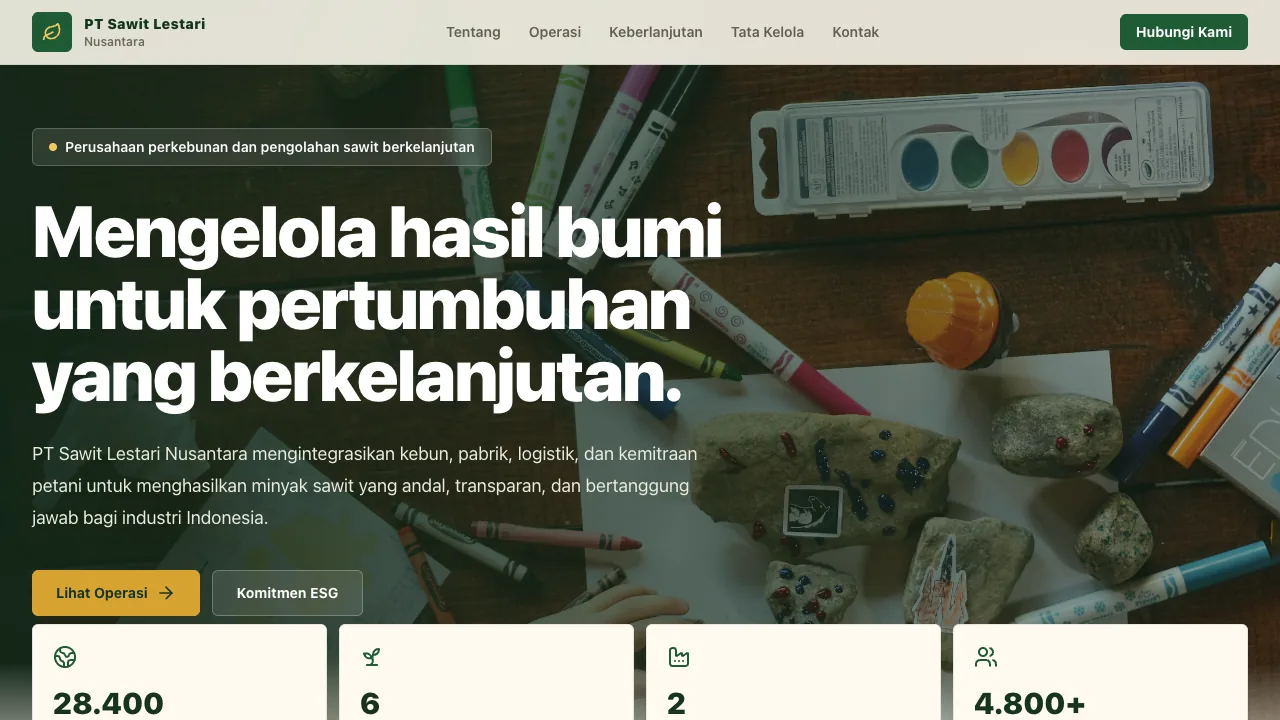
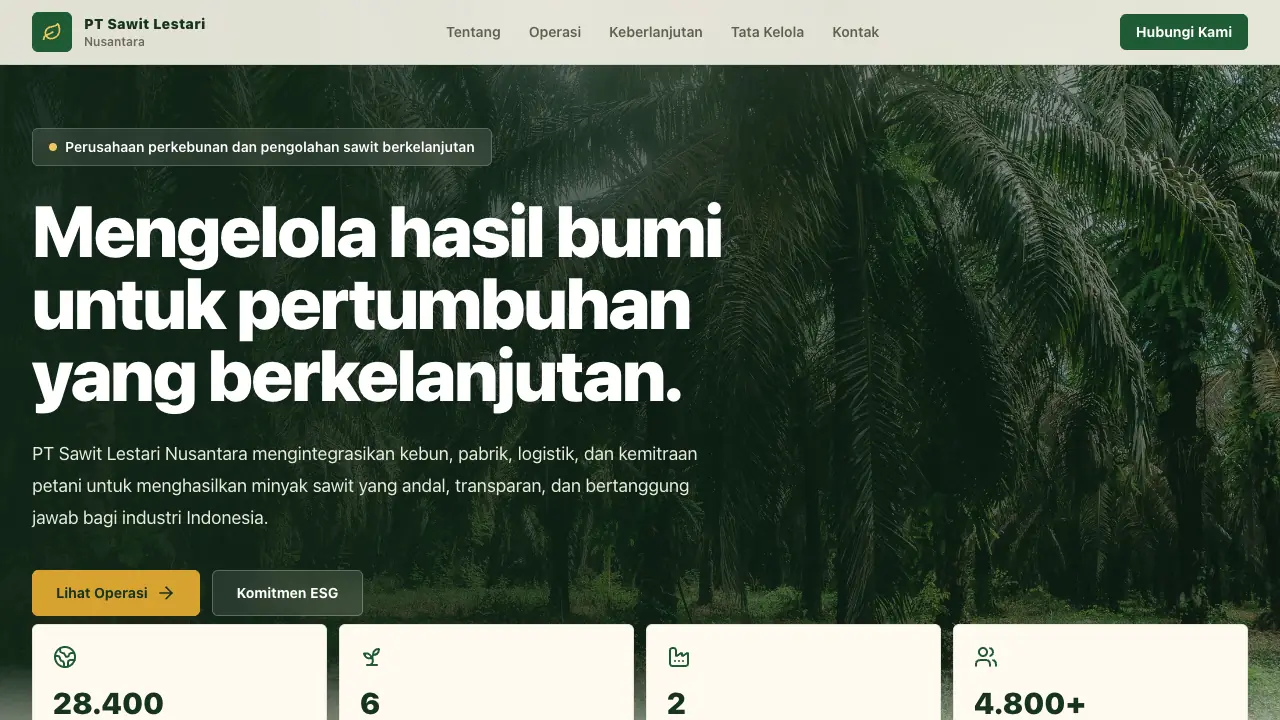
feat(web): show real demo screens, the team and plain checks on the homepage
- Products: each card leads with its demo screenshot in a browser frame,
  two wide tiles then three, with outcome-focused descriptions.
- About: the team's photos, names and roles replace three generic
  value cards.
- Hero: the four service pills become a checklist so they no longer read
  as extra buttons.
- Recapture the company demo screenshot with its new hero photo.

diff --git a/apps/web/components/products.tsx b/apps/web/components/products.tsx
@@ -1,13 +1,7 @@
-import {
-  ArrowRight,
-  Bot,
-  Building,
-  MonitorSmartphone,
-  ShoppingCart,
-  UsersRound,
-  type LucideIcon,
-} from "lucide-react";
+import { ArrowRight } from "lucide-react";
+import Image from "next/image";
 import { type Messages } from "@/lib/i18n";
+import { cn } from "@repo/ui/lib/utils";
 import { ConversionLink } from "./conversion-link";
 import { Reveal } from "./reveal";
 import { ScrollParallax } from "./scroll-parallax";
@@ -16,15 +10,12 @@ type ProductsProps = {
   messages: Messages;
 };
 
-const productIcons: LucideIcon[] = [
-  Bot,
-  UsersRound,
-  Building,
-  ShoppingCart,
-  MonitorSmartphone,
-];
+/** The first two products get wide tiles; the rest share the row below. */
+const FEATURED_COUNT = 2;
 
 export function Products({ messages }: ProductsProps) {
+  const items = messages.products.items;
+
   return (
     <section className="section-padding overflow-hidden bg-white">
       <div className="section-container">
@@ -49,47 +40,99 @@ export function Products({ messages }: ProductsProps) {
           </Reveal>
         </ScrollParallax>
 
-        <div className="mt-10 grid gap-5 md:mt-14 md:grid-cols-2 lg:grid-cols-3 lg:gap-6">
-          {messages.products.items.map((product, index) => {
-            const Icon = productIcons[index] ?? MonitorSmartphone;
+        <div className="mt-10 grid gap-5 md:mt-14 md:grid-cols-2 lg:grid-cols-6 lg:gap-6">
+          {items.map((product, index) => {
+            const featured = index < FEATURED_COUNT;
+            // With an odd count the last tile would sit alone in the
+            // two-column tablet grid, so it spans the row instead.
+            const spansTabletRow =
+              index === items.length - 1 && items.length % 2 === 1;
 
             return (
               <Reveal
-                className="h-full"
+                className={cn(
+                  "h-full",
+                  featured ? "lg:col-span-3" : "lg:col-span-2",
+                  spansTabletRow && "md:col-span-2 lg:col-span-2",
+                )}
                 delay={index * 100}
                 direction={index % 2 === 0 ? "left" : "right"}
                 key={product.name}
               >
-                <article className="product-card-motion group relative flex h-full flex-col overflow-hidden rounded-lg border border-slate-200 bg-white p-5 shadow-sm transition duration-300 hover:-translate-y-2 hover:border-[#E8531A]/30 hover:shadow-xl sm:p-7">
-                  <div className="relative flex h-14 w-14 items-center justify-center rounded-lg bg-[#FAF8F5] text-[#E8531A] transition duration-300 group-hover:-translate-y-1 group-hover:bg-[#FFF4EF]">
-                    <Icon className="h-7 w-7" />
-                  </div>
-                  <h3 className="relative mt-6 text-2xl font-bold tracking-tight text-[#1B3A5C]">
-                    {product.name}
-                  </h3>
-                  <p className="relative mt-4 text-base leading-relaxed text-[#1A1A2E]/75 md:min-h-24">
-                    {product.description}
-                  </p>
-                  <div className="relative mt-6 flex flex-col items-start gap-3 md:mt-auto md:pt-6">
-                    <a
-                      aria-label={`${messages.products.serviceCta}: ${product.name}`}
-                      className="inline-flex items-center gap-2 text-base font-bold text-[#1B3A5C] transition hover:text-[#C4430D]"
-                      href={product.serviceHref}
+                <article className="product-card-motion group relative flex h-full flex-col overflow-hidden rounded-xl border border-slate-200 bg-white shadow-sm transition duration-300 hover:-translate-y-1.5 hover:border-[#E8531A]/30 hover:shadow-xl">
+                  {/* Same destination as the demo link below, so it stays out of the tab order. */}
+                  <ConversionLink
+                    className="block border-b border-slate-200 bg-[#F4F5F7]"
+                    eventLabel={`demo_${product.name}`}
+                    eventName="demo_click"
+                    href={product.href}
+                    rel="noreferrer"
+                    tabIndex={-1}
+                    target="_blank"
+                  >
+                    <div className="flex items-center gap-3 px-4 py-2.5">
+                      <div aria-hidden="true" className="flex items-center gap-1.5">
+                        <span className="h-2 w-2 rounded-full bg-[#D0490F]" />
+                        <span className="h-2 w-2 rounded-full bg-[#F4B350]" />
+                        <span className="h-2 w-2 rounded-full bg-[#3BAA72]" />
+                      </div>
+                      <span className="flex-1 truncate rounded-md bg-white px-3 py-0.5 text-center text-xs font-medium text-slate-500">
+                        {new URL(product.href).host}
+                      </span>
+                    </div>
+                    <div
+                      className={cn(
+                        "relative aspect-[16/9] overflow-hidden",
+                        spansTabletRow && "md:max-lg:aspect-[21/9]",
+                      )}
                     >
-                      {messages.products.serviceCta}
-                      <ArrowRight className="h-5 w-5" />
-                    </a>
-                    <ConversionLink
-                      className="inline-flex items-center gap-2 text-base font-bold text-[#C4430D] transition group-hover:text-[#1B3A5C]"
-                      eventLabel={`demo_${product.name}`}
-                      eventName="demo_click"
-                      href={product.href}
-                      rel="noreferrer"
-                      target="_blank"
-                    >
-                      {product.cta ?? messages.products.learnMore}
-                      <ArrowRight className="h-5 w-5" />
-                    </ConversionLink>
+                      <Image
+                        alt={messages.products.imageAlt.replace(
+                          "{name}",
+                          product.name,
+                        )}
+                        className="object-cover object-top transition duration-500 group-hover:scale-[1.03]"
+                        fill
+                        sizes={
+                          featured
+                            ? "(min-width: 1024px) 600px, (min-width: 768px) 50vw, 100vw"
+                            : "(min-width: 1024px) 400px, (min-width: 768px) 50vw, 100vw"
+                        }
+                        src={product.image}
+                      />
+                    </div>
+                  </ConversionLink>
+
+                  <div className="relative flex flex-1 flex-col p-5 sm:p-6">
+                    <h3 className="text-xl font-bold tracking-tight text-[#1B3A5C] sm:text-2xl">
+                      {product.name}
+                    </h3>
+                    <p className="mt-3 text-base leading-relaxed text-[#1A1A2E]/75">
+                      {product.description}
+                    </p>
+                    <div className="mt-auto flex flex-wrap items-center gap-x-6 gap-y-3 pt-6">
+                      <a
+                        aria-label={`${messages.products.serviceCta}: ${product.name}`}
+                        className="inline-flex items-center gap-2 text-base font-bold text-[#1B3A5C] transition hover:text-[#C4430D]"
+                        href={product.serviceHref}
+                      >
+                        {messages.products.serviceCta}
+                        <ArrowRight className="h-5 w-5" />
+                      </a>
+                      {/* The heading names the product; screen readers get it in the link name too. */}
+                      <ConversionLink
+                        aria-label={`${messages.products.learnMore} ${product.name}`}
+                        className="inline-flex items-center gap-2 text-base font-bold text-[#C4430D] transition hover:text-[#1B3A5C]"
+                        eventLabel={`demo_${product.name}`}
+                        eventName="demo_click"
+                        href={product.href}
+                        rel="noreferrer"
+                        target="_blank"
+                      >
+                        {messages.products.learnMore}
+                        <ArrowRight className="h-5 w-5" />
+                      </ConversionLink>
+                    </div>
                   </div>
                 </article>
               </Reveal>

diff --git a/apps/web/components/about-company.tsx b/apps/web/components/about-company.tsx
@@ -1,6 +1,8 @@
-import { ArrowRight, CheckCircle2, MapPin, Network, ShieldCheck } from "lucide-react";
+import { ArrowRight, CheckCircle2 } from "lucide-react";
+import Image from "next/image";
 import Link from "next/link";
 import { type Messages } from "@/lib/i18n";
+import { getTeamMembers } from "@/lib/team";
 import { Reveal } from "./reveal";
 import { ScrollParallax } from "./scroll-parallax";
 
@@ -8,9 +10,10 @@ type AboutCompanyProps = {
   messages: Messages;
 };
 
-const valueIcons = [MapPin, Network, ShieldCheck];
-
 export function AboutCompany({ messages }: AboutCompanyProps) {
+  const members = getTeamMembers(messages);
+  const photoAlt = messages.aboutPage.team.photoAlt;
+
   return (
     <section className="section-padding overflow-hidden bg-white">
       <div className="section-container grid gap-10 lg:grid-cols-[0.95fr_1.05fr] lg:items-center lg:gap-12">
@@ -51,40 +54,40 @@ export function AboutCompany({ messages }: AboutCompanyProps) {
           </Reveal>
         </ScrollParallax>
 
-        <div className="grid gap-4 md:grid-cols-3 lg:grid-cols-1 lg:gap-5">
-          {messages.about.values.map((value, index) => {
-            const Icon = valueIcons[index] ?? ShieldCheck;
-
-            return (
-              <ScrollParallax
-                direction="up"
-                key={value.label}
-                maxOffset={26 + index * 6}
-              >
-                <Reveal
-                  delay={index * 110}
-                  direction={index % 2 === 0 ? "right" : "left"}
-                >
-                  <article className="h-full rounded-lg border border-slate-200 bg-[#FAF8F5] p-5 shadow-sm transition duration-300 hover:-translate-y-1 hover:shadow-lg sm:p-6">
-                    <div className="flex items-start gap-4 md:flex-col lg:flex-row">
-                      <div className="flex h-12 w-12 shrink-0 items-center justify-center rounded-lg bg-white text-[#E8531A] shadow-sm">
-                        <Icon className="h-6 w-6" />
-                      </div>
-                      <div>
-                        <h3 className="text-xl font-bold tracking-tight text-[#1B3A5C]">
-                          {value.label}
-                        </h3>
-                        <p className="mt-2 text-base leading-relaxed text-[#1A1A2E]/75">
-                          {value.text}
-                        </p>
-                      </div>
+        {/* Real faces instead of abstract values: clients want to know who they work with. */}
+        <ScrollParallax direction="up" maxOffset={30}>
+          <Reveal direction="right">
+            <div className="rounded-2xl border border-slate-200 bg-[#FAF8F5] p-4 shadow-sm sm:p-7">
+              <p className="text-sm font-bold uppercase tracking-[0.14em] text-[#1B3A5C]/70">
+                {messages.about.teamTitle}
+              </p>
+              <ul className="mt-4 grid grid-cols-2 gap-3 sm:mt-5 sm:gap-4">
+                {members.map((member) => (
+                  <li
+                    className="flex flex-col items-center rounded-xl bg-white px-3 py-5 text-center shadow-sm ring-1 ring-slate-200/70 transition duration-300 hover:-translate-y-1 hover:shadow-lg sm:px-5"
+                    key={member.name}
+                  >
+                    <div className="relative h-20 w-20 overflow-hidden rounded-full bg-[#1B3A5C] ring-4 ring-[#FFF4EF] sm:h-24 sm:w-24">
+                      <Image
+                        alt={photoAlt.replace("{name}", member.name)}
+                        className="object-cover object-top"
+                        fill
+                        sizes="96px"
+                        src={member.photo}
+                      />
                     </div>
-                  </article>
-                </Reveal>
-              </ScrollParallax>
-            );
-          })}
-        </div>
+                    <p className="mt-4 text-sm font-bold leading-snug text-[#1B3A5C] sm:text-base">
+                      {member.name}
+                    </p>
+                    <p className="mt-1.5 text-xs font-bold uppercase leading-snug tracking-[0.12em] text-[#C4430D]">
+                      {member.role}
+                    </p>
+                  </li>
+                ))}
+              </ul>
+            </div>
+          </Reveal>
+        </ScrollParallax>
       </div>
     </section>
   );

diff --git a/apps/web/components/hero.tsx b/apps/web/components/hero.tsx
@@ -1,4 +1,4 @@
-import { ArrowRight, Building2 } from "lucide-react";
+import { ArrowRight, Building2, CheckCircle2 } from "lucide-react";
 import Image from "next/image";
 import Link from "next/link";
 import { type Messages } from "@/lib/i18n";
@@ -69,21 +69,23 @@ export function Hero({ messages }: HeroProps) {
             </div>
           </Reveal>
 
-          <ul className="mt-6 flex flex-wrap gap-2.5 sm:mt-9 sm:gap-3">
-            {messages.hero.trustIndicators.map((indicator, index) => (
-              <li key={indicator}>
-                <Reveal
-                  instant
-                  delay={320 + index * 70}
-                  direction={index % 2 === 0 ? "left" : "right"}
+          {/* Plain checks, not pills: pills next to the CTAs read as more buttons. */}
+          <Reveal instant delay={320} direction="left">
+            <ul className="mt-6 grid grid-cols-2 gap-x-4 gap-y-2.5 sm:mt-9 sm:flex sm:flex-wrap sm:gap-x-6 sm:gap-y-3">
+              {messages.hero.trustIndicators.map((indicator) => (
+                <li
+                  className="flex items-center gap-2 text-sm font-semibold text-white/85 sm:text-base"
+                  key={indicator}
                 >
-                  <span className="block rounded-full border border-white/20 bg-white/10 px-4 py-2.5 text-sm font-semibold text-white sm:px-5 sm:py-3 sm:text-base">
-                    {indicator}
-                  </span>
-                </Reveal>
-              </li>
-            ))}
-          </ul>
+                  <CheckCircle2
+                    aria-hidden="true"
+                    className="h-4 w-4 shrink-0 text-[#F4784A] sm:h-5 sm:w-5"
+                  />
+                  {indicator}
+                </li>
+              ))}
+            </ul>
+          </Reveal>
         </ParallaxLayer>
 
         <ParallaxLayer

diff --git a/apps/web/components/about-page.tsx b/apps/web/components/about-page.tsx
@@ -3,16 +3,11 @@ import Image from "next/image";
 import { CountUp } from "@/components/count-up";
 import { CtaSection } from "@/components/cta-section";
 import { Reveal } from "@/components/reveal";
+import { getTeamMembers } from "@/lib/team";
 
 export function AboutPage({ messages }: { messages: Messages }) {
   const a = messages.aboutPage;
-
-  const members = [
-    { ...a.team.bagas, photo: "/team/bagas-avatar.jpg" },
-    { ...a.team.alana, photo: "/team/alana-avatar.jpg" },
-    { ...a.team.hambali, photo: "/team/hambali-avatar.jpg" },
-    { ...a.team.faiz, photo: "/team/faiz-avatar.jpg" },
-  ];
+  const members = getTeamMembers(messages);
 
   return (
     <main

diff --git a/apps/web/lib/team.ts b/apps/web/lib/team.ts
@@ -1,0 +1,20 @@
+import type { Messages } from "@/lib/i18n";
+
+const TEAM_PHOTOS = {
+  bagas: "/team/bagas-avatar.jpg",
+  alana: "/team/alana-avatar.jpg",
+  hambali: "/team/hambali-avatar.jpg",
+  faiz: "/team/faiz-avatar.jpg",
+} as const;
+
+type TeamKey = keyof typeof TEAM_PHOTOS;
+
+/** The team in display order, with photos, for the homepage and /about. */
+export function getTeamMembers(messages: Messages) {
+  const team = messages.aboutPage.team;
+
+  return (Object.keys(TEAM_PHOTOS) as TeamKey[]).map((key) => ({
+    ...team[key],
+    photo: TEAM_PHOTOS[key],
+  }));
+}
